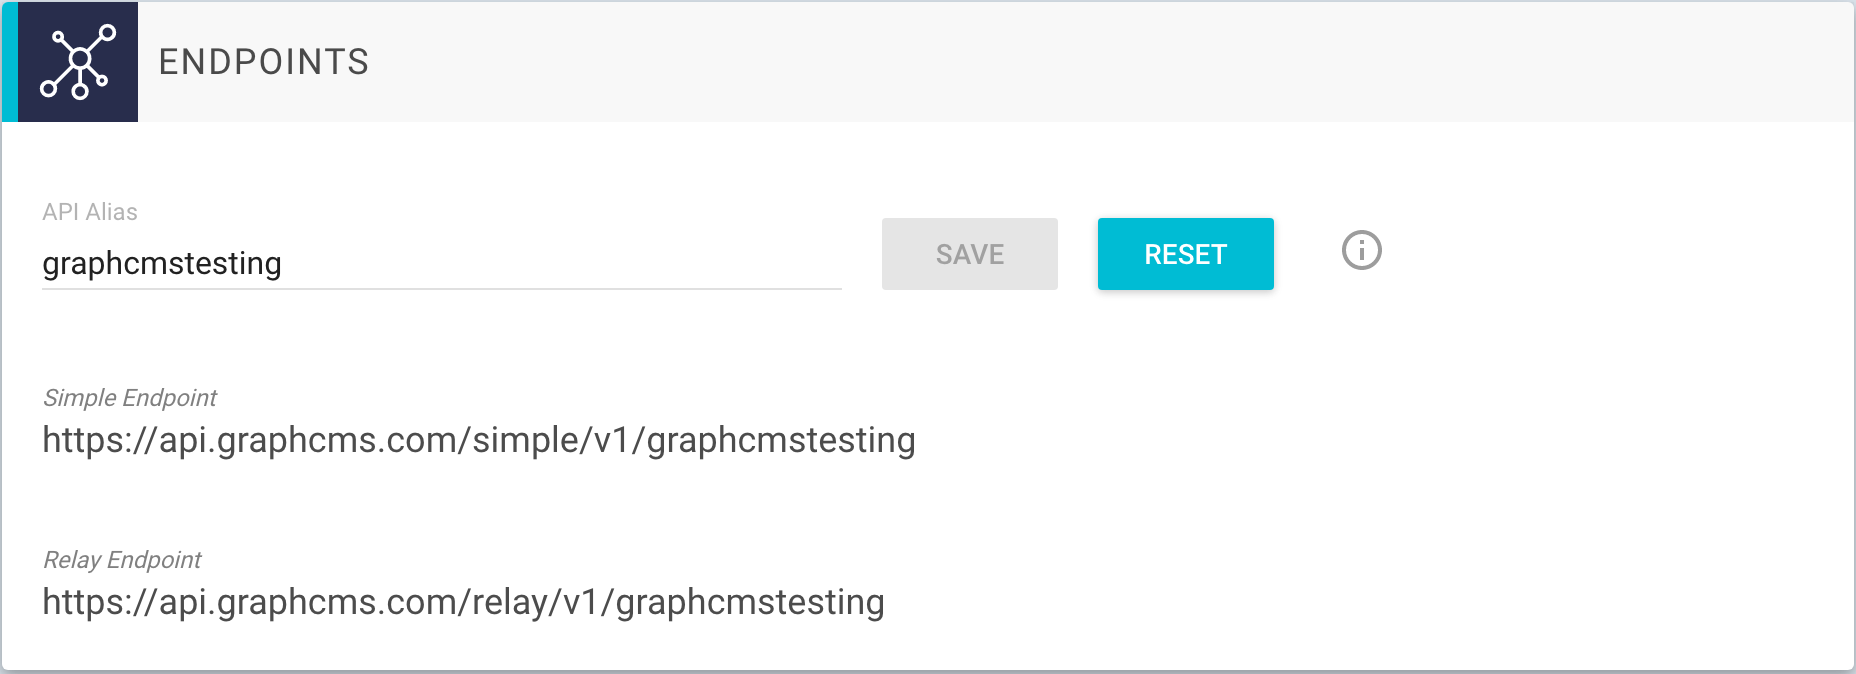
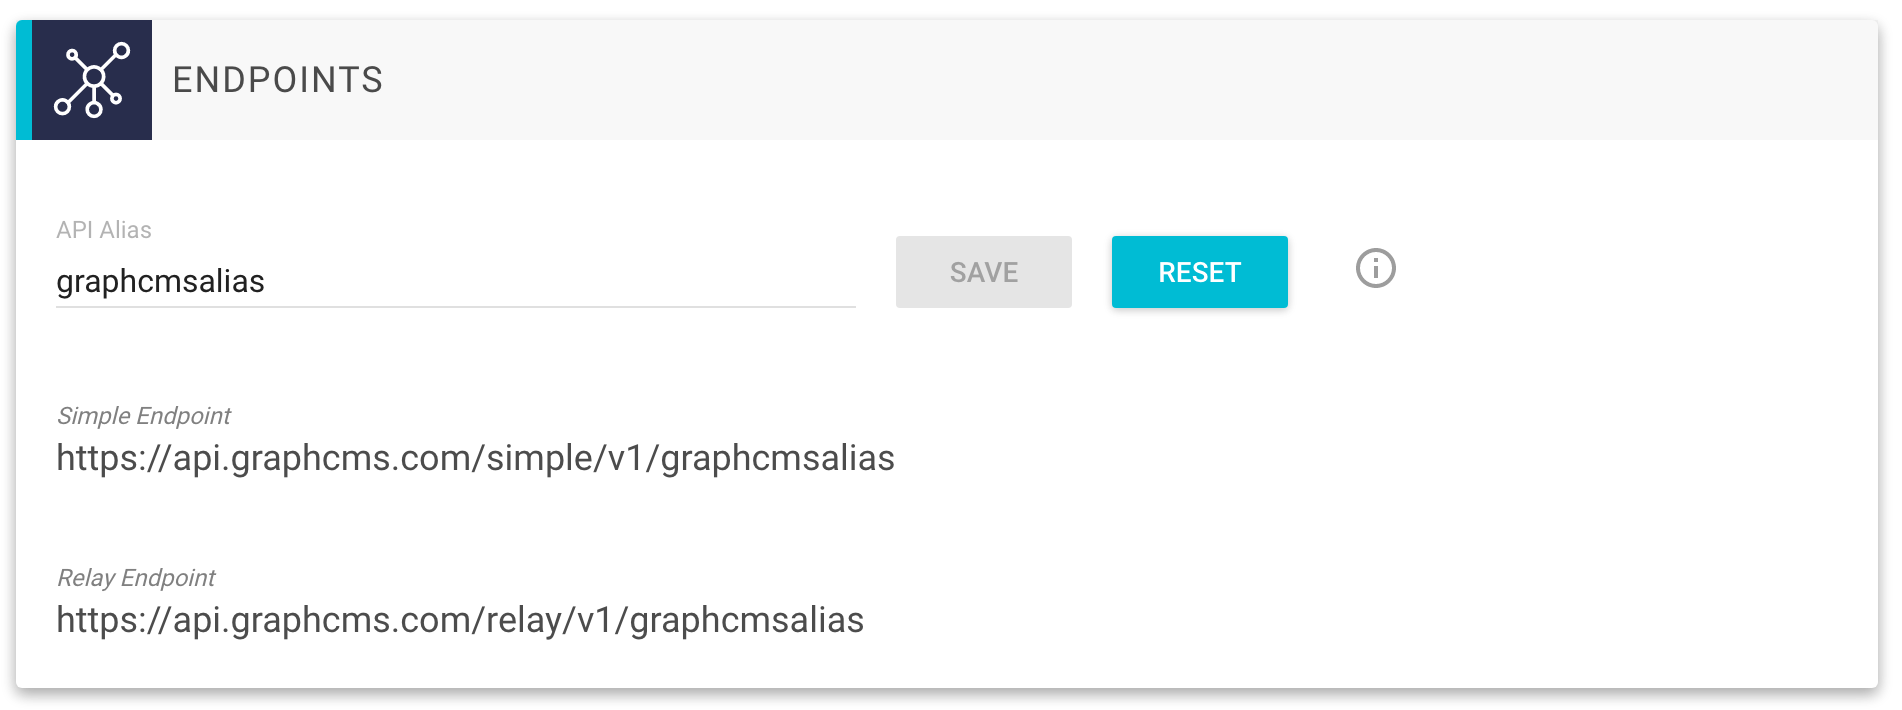
alias updates

diff --git a/theme/material/base.html b/theme/material/base.html
@@ -136,6 +136,17 @@
       {% endif %}
     {% endblock %}
 
+    <script>
+      (function(i,s,o,g,r,a,m){i['GoogleAnalyticsObject']=r;i[r]=i[r]||function(){
+      (i[r].q=i[r].q||[]).push(arguments)},i[r].l=1*new Date();a=s.createElement(o),
+      m=s.getElementsByTagName(o)[0];a.async=1;a.src=g;m.parentNode.insertBefore(a,m)
+      })(window,document,'script','https://www.google-analytics.com/analytics.js','ga');
+
+      ga('create', 'UA-83422951-1', 'auto');
+      ga('send', 'pageview');
+
+    </script>
+
     <script src="https://cdn.smooch.io/smooch.min.js"></script>
   	<script>
   		try {

diff --git a/docs/guides/Using_aliases_for_api.md b/docs/guides/Using_aliases_for_api.md
@@ -1,26 +1,29 @@
 # Using Aliases for your API
 
-GraphCMS creates automatically an API for your project containing all your setup content models. There are two different APIs: [simple](http://localhost:8000/API_simple/) and [relay](http://localhost:8000/API_relay/).
+GraphCMS creates automatically two APIs for your content:
 
-You can access those APIs by using the following default URLs:
+* [Simple API](/API_simple)
+* [Relay API](/API_relay)
+
+You can access the endpoints by using the following default URLs:
 
 - Simple: `https://api.graphcms.com/simple/v1/<projectId>`
 - Relay: `https://api.graphcms.com/relay/v1/<projectId>`
 
-To find those URLs go to the settings view in GraphCMS and take a look at the `Endpoints` section (see the screenshot below):
+To find those URLs, go to the `Settings` view in GraphCMS and take a look at the `Endpoints` section (see the screenshot below):
 
 ![Screenshot](../img/guides/default_alias.png)
 
 
-You can replace the `projectId` in those URLs by your own `alias`. If you setup an alias `graphcmstesting` this will change your urls like this:
+You can replace the `projectId` in the URLs with your own `alias`. If you set up an alias, i.e. `graphcmsalias` this will change your URLs like this:
 
-- Simple: `https://api.graphcms.com/simple/v1/graphcmstesting`
-- Relay: `https://api.graphcms.com/relay/v1/graphcmstesting`
+- Simple: `https://api.graphcms.com/simple/v1/graphcmsalias`
+- Relay: `https://api.graphcms.com/relay/v1/graphcmsalias`
 
 ![Screenshot](../img/guides/custom_alias.png)
 
 !!! warning ""
-    Please remember that project aliases must be _globally_ unique. If another user has taken this alias, you cannot use it in your project.
+    Please remember that project aliases must be _globally_ unique. If another user has taken the alias already, you cannot use it in your project.
 
 !!! hint ""
-    If you setup an alias for your project, you can still use the default URLs of the API.
+    If you set up an alias for your project, you can still use the default URLs of your API.
